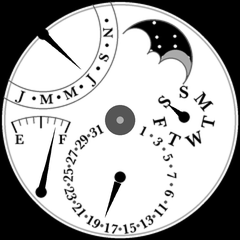
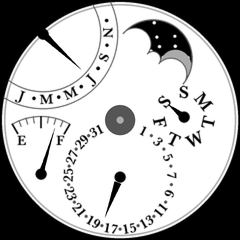
finalize regence face

Changed region(s): [[0.1458, 0.4667, 0.3208, 0.8458], [0.0292, 0.4667, 0.1167, 0.6125]]

diff --git a/Faces/regence/app.js b/Faces/regence/app.js
@@ -65,10 +65,10 @@ return {
 	"dow_angle": function (w) {
 		return w * (360.0 / 7.0);
 	},
-	// power reserve between 7 and 8: battery across a 45 deg sector
+	// power reserve between 7 and 8: battery across a 60 deg sector
 	// centred on that gauge's own 12 (must match gen_assets.py)
 	"pwr_angle": function (soc) {
-		return (soc / 100.0 - 0.5) * 45.0;
+		return (soc / 100.0 - 0.5) * 60.0;
 	},
 
 	"compute": function () {

diff --git a/Faces/gen_assets.py b/Faces/gen_assets.py
@@ -1632,9 +1632,14 @@ REG_DATE_R = 52              # date label radius (about that centre)
 # the old 120 deg fan could not go.  Searched against the real ink of the
 # other dials rather than a bounding disc: it clears them by 8px and
 # reaches r=112.6 of the 118 dial.
-REG_PWR_CENTER = (41, 192)   # power-reserve pivot, at the foot of the gauge
-REG_PWR_R = 76               # graduation radius (about that pivot)
-REG_PWR_SPAN = 45            # sector the needle sweeps, centred on local 12
+# Widening the sweep without moving the scale pins these three together:
+# the arc's width is the chord 2*R*sin(span/2), so holding it at 58 while
+# the span went 45 -> 60 forced R 76 -> 58, and the pivot then had to rise
+# by exactly that difference (192 -> 174) to leave the top of the arc where
+# it was, at (41,116).  Change any one of them and the other two follow.
+REG_PWR_CENTER = (41, 174)   # power-reserve pivot, at the foot of the gauge
+REG_PWR_R = 58               # graduation radius (about that pivot)
+REG_PWR_SPAN = 60            # sector the needle sweeps, centred on local 12
 # E/F rather than 0/100: it is what retro and reptile already label a
 # battery gauge with, it matches this dial's own single-serif-letter
 # language, and at the 14pt floor "100" would not fit inside the scale.
